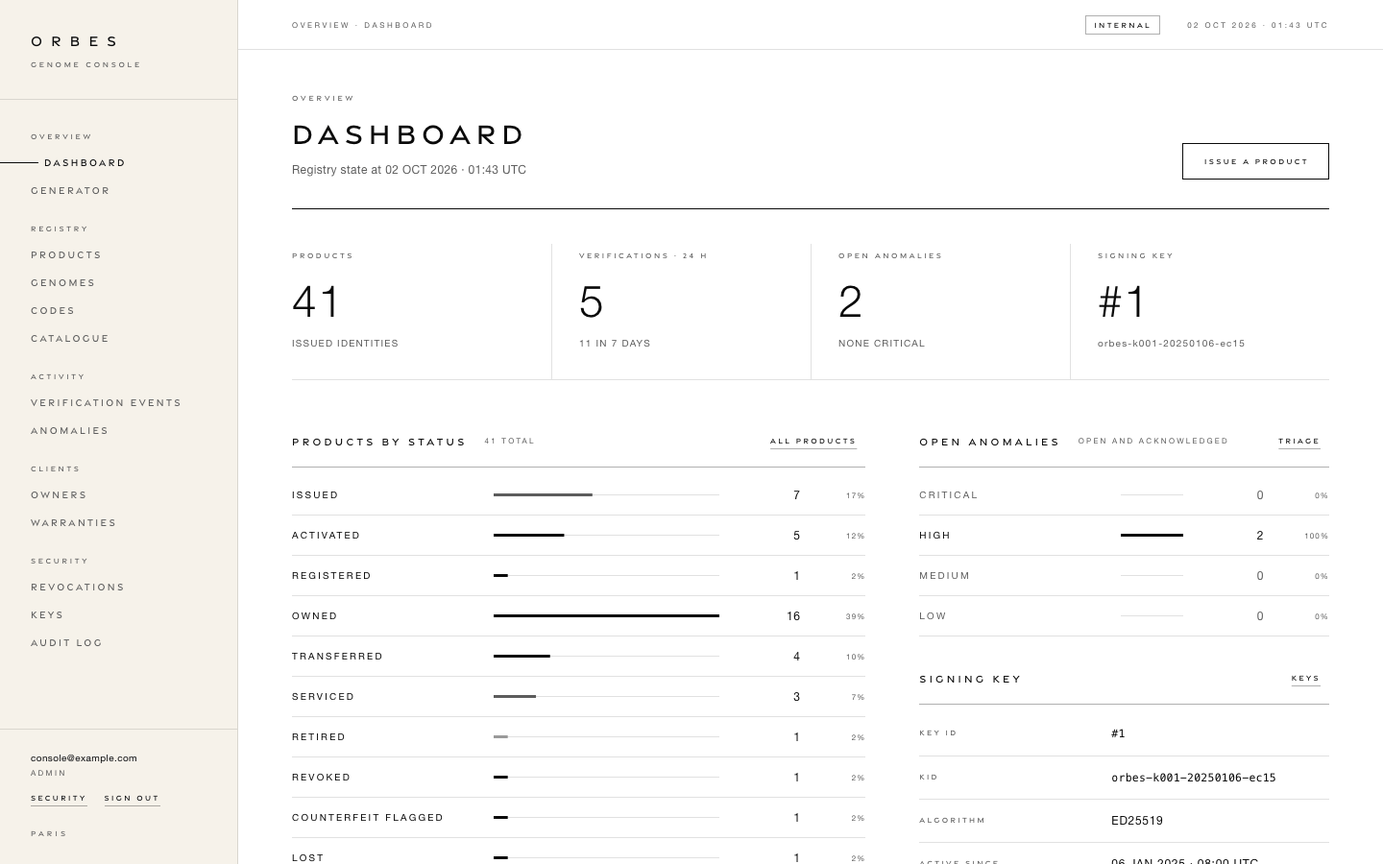
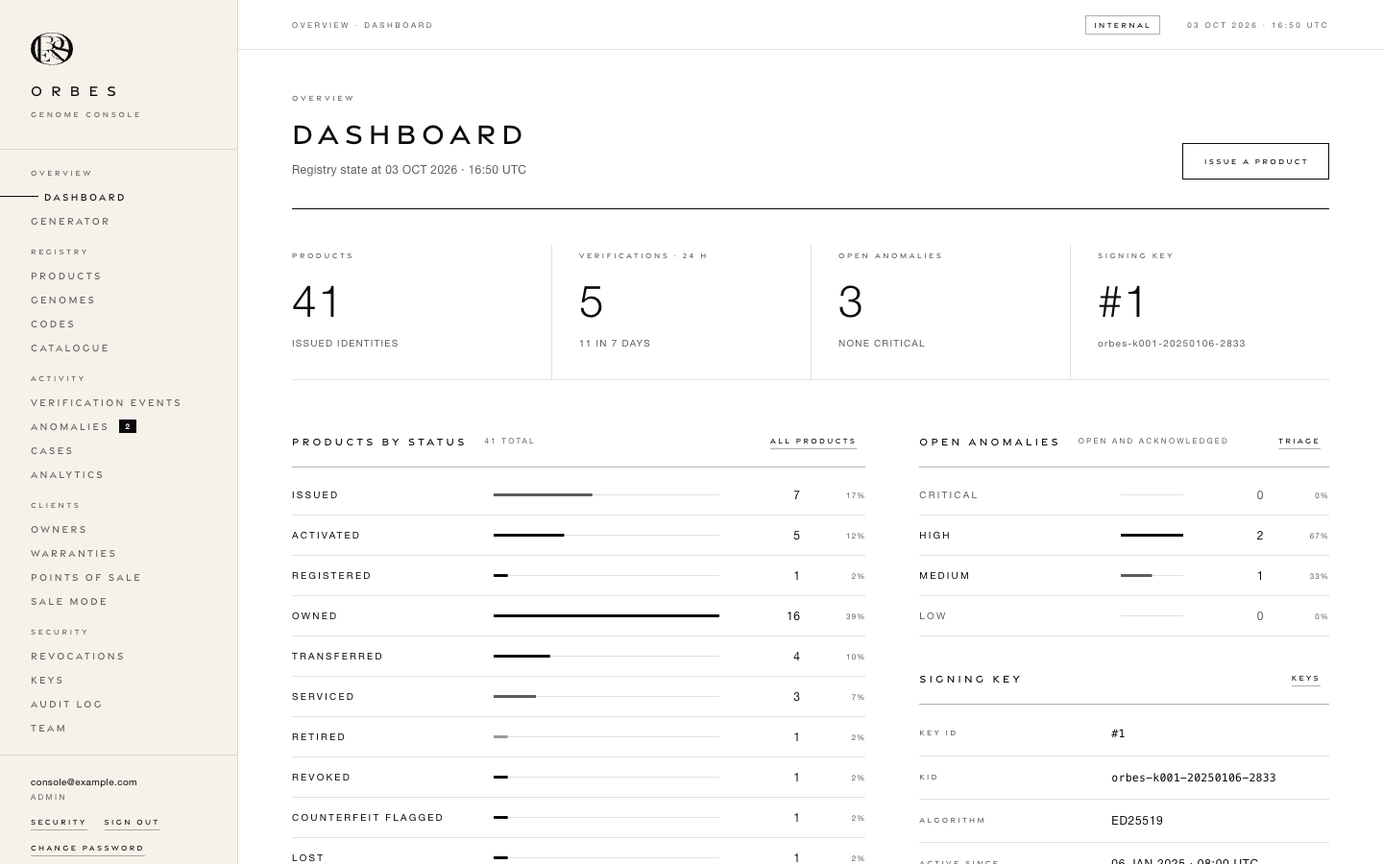
Docs: UI captures regenerated after the 2026-10-02 recommendations
capture-ui.ts now also writes Cases, Analytics (last 30 days), the owner
sheet, Team (with an OPERATOR and a RETAIL seller made through the auth
service), the sale mode on a phone (READY TO SELL from a photo) and the
legal FAQ, and takes the ownership certificate as a full page. The whole
set was regenerated in Chrome for Testing on macOS, except the locked
scanner, kept from the Linux run because macOS paints its frozen frame
black. BRAND shows MY PIECES, the certificate, the FAQ and the new
console screens, drops the "stage 4 regenerates it" note, and §9 lists
every capture and how the set is taken from a Mac.

diff --git a/genome/scripts/capture-ui.ts b/genome/scripts/capture-ui.ts
@@ -21,27 +21,38 @@
  *     VERIFYING… (photo path) · UNUSUAL ACTIVITY (O26-J-00193, reported
  *     stolen) · INVALID SIGNATURE (a demo code with one signature bit flipped)
  *   admin (1440 × 900 CSS px at 1×)
- *     dashboard · product page O26-J-00184 · generator result
+ *     dashboard · product page O26-J-00184 · generator result · Cases (the
+ *     demo customers' two reports) · Analytics (the daily statistics of the
+ *     last 30 complete days) · the owner sheet of Camille Martin · Team (the
+ *     bootstrap ADMIN and two staff accounts created through the auth
+ *     service: an OPERATOR still on its temporary password, a RETAIL seller)
+ *   admin, sale mode (the phone of verify, after the console's captures: the
+ *     lookup records a scan): the RETAIL seller, signed in, at the Paris
+ *     boutique, with the in-stock O26-J-00187 read from a photo: READY TO SELL
  *   verify, last (its scans would change the console's figures)
  *     UNUSUAL ACTIVITY with DO YOU HOLD THE CERTIFICATE CARD? (O26-L-00014,
  *     sold and unregistered, with a claim code, after a burst of scans of
  *     copies of its code from 22 sources) · MY PIECES (F-01) of the demo
  *     owner Camille Martin, signed in · the OWNERSHIP CERTIFICATE (F-06)
- *     of one of her pieces, opened by a visitor from its link
+ *     of one of her pieces, opened by a visitor from its link (full page)
+ *   legal (the phone of verify): the FAQ (/legal/faq, J-06), in English
  *
  * Nothing is mocked. Two network holds make transient states capturable:
  * the decoder worker script is held until the scanner has been
  * photographed searching, and POST /api/v1/verify is held while the locked
  * scanner and the VERIFYING… screen are photographed. The one-time claim code
  * on the generator result is hidden with its own control before capture.
- * The verify app's 2.2 % film grain (.grain) is hidden through the CSSOM
- * before each capture: invisible at documentation scale, it would otherwise
+ * The 2.2 % film grain (.grain) of verify and of the legal pages is hidden
+ * through the CSSOM before each capture: invisible at documentation scale, it would otherwise
  * roughly triple the size of the set.
  *
  * Titles and labels render in the shipped display face, Gravesend Sans,
  * everywhere (captures wait for document.fonts.ready). Reading text uses the
  * system stack: Helvetica Neue on macOS; Chromium on Linux has none and
  * resolves it to Liberation Sans (metric-compatible with Helvetica/Arial).
+ * Chrome for Testing on macOS paints the locked scanner's frozen camera
+ * frame black: from a Mac, keep docs/assets/ui/verify-03-locked.png from a
+ * Linux run (write the set elsewhere with --out and copy the rest).
  */
 import { mkdirSync, mkdtempSync, readdirSync, rmSync, statSync, writeFileSync } from 'node:fs';
 import { createServer } from 'node:net';
@@ -61,7 +72,7 @@ import { createContext, type AppContext } from '../src/server/context.js';
 import { closeDb, createDb, type Db } from '../src/server/db/connection.js';
 import { DEMO_FIRST_REGISTRATION_PRODUCT_ID, DEMO_TIMELINE_START, seedDemo } from '../src/server/db/seed/demo.js';
 import { MemoryKeyProvider } from '../src/server/keys/memory-provider.js';
-import { createManualClock, noopLogger } from '../src/server/types.js';
+import { createManualClock, noopLogger, systemActor } from '../src/server/types.js';
 import { cameraClipFrames } from '../test/e2e/support.js';
 import { svgToGray } from '../test/support/raster.js';
 import { writeY4m } from '../test/support/y4m.js';
@@ -76,12 +87,17 @@ const FIRST_REGISTRATION = DEMO_FIRST_REGISTRATION_PRODUCT_ID; // O26-J-00184, A
 const UNUSUAL_ACTIVITY = 'O26-J-00193'; // reported STOLEN, scanned by a stranger
 const FORGERY_BASE = 'O26-J-00186'; // in stock; its signature gets one flipped bit
 const CARD_SECTION = 'O26-L-00014'; // sold (ACTIVATED), unregistered, ships with a claim code
+const SALE_PIECE = 'O26-J-00187'; // in stock (ISSUED), never sold: READY TO SELL in the sale mode
+const SALE_BOUTIQUE = 'SAINT-HONORÉ'; // the demo point of sale the seller picks (ORBES PARIS — SAINT-HONORÉ)
 /** Scans of copies of its code, from this many distinct sources within a minute: velocity ⊕ diversity. */
 const CARD_BURST = 22;
 
 const ADMIN = { email: 'console@example.com', password: 'capture-ui-demo-password' };
 /** The demo owner whose pieces MY PIECES shows (the demo accounts take this password for the capture). */
 const OWNER = { email: 'camille.martin@example.com', password: 'capture-ui-owner-password' };
+/** Staff for the Team page: a seller (RETAIL) who signs in to the sale mode, and an OPERATOR on its temporary password. */
+const SELLER = { email: 'boutique.paris@example.com', password: 'capture-ui-seller-password' };
+const OPERATOR_EMAIL = 'atelier@example.com';
 const MOBILE = { width: 390, height: 844 } as const;
 const DESKTOP = { width: 1440, height: 900 } as const;
 const IPHONE_UA =
@@ -506,7 +522,7 @@ async function captureVerifyCertificate(stage: Stage, shots: Shots): Promise<voi
     await view.evaluate(() => document.fonts.ready);
     await hideGrain(view);
     await sleep(600);
-    await shots.viewport(view, 'verify-13-ownership-certificate');
+    await shots.full(view, 'verify-13-ownership-certificate');
     await visitor.close();
   } finally {
     await browser.close();
@@ -551,6 +567,99 @@ async function captureAdmin(stage: Stage, shots: Shots): Promise<void> {
     await page.mouse.move(0, 0);
     await sleep(900);
     await shots.full(page, 'admin-03-generator-result');
+
+    // Cases (C-02): the demo customers' answers to WHERE DID YOU SEE OR BUY THIS PIECE?
+    await page.goto(`${stage.origin}/admin#/cases`);
+    await page.waitForSelector('.view--cases [data-testid=case-where]');
+    await sleep(900);
+    await shots.viewport(page, 'admin-04-cases');
+
+    // Analytics (A-09): the daily statistics the demo seed counted, as housekeeping does every night.
+    await page.goto(`${stage.origin}/admin#/analytics?days=30`);
+    await page.waitForSelector('.view--analytics [data-testid=analytics-trend]');
+    await sleep(1200);
+    await shots.full(page, 'admin-05-analytics');
+
+    // The owner sheet (A-06) of the demo owner whose pieces MY PIECES shows.
+    const owner = await stage.db.selectFrom('accounts').select('id').where('email_normalized', '=', OWNER.email).executeTakeFirstOrThrow();
+    await page.goto(`${stage.origin}/admin#/owners/${owner.id}`);
+    await page.waitForSelector('.view--owner [data-testid=owner-scan]');
+    await sleep(900);
+    await shots.viewport(page, 'admin-06-owner');
+
+    // Team (A-02, A-08): the bootstrap ADMIN and the two staff accounts of addStaff.
+    await page.goto(`${stage.origin}/admin#/team`);
+    await page.waitForSelector(`[data-testid=admin-users] tr:has-text("${OPERATOR_EMAIL}")`);
+    await sleep(900);
+    await shots.viewport(page, 'admin-07-team');
+    await context.close();
+  } finally {
+    await browser.close();
+  }
+}
+
+/**
+ * Two staff accounts for the Team page, through the auth service as the console and the shell create them:
+ * an OPERATOR from the Team page (a temporary password, never used here) and a RETAIL seller with a known
+ * password (as `scripts/admin.ts create` makes one), who signs in to the sale mode.
+ */
+async function addStaff(stage: Stage): Promise<void> {
+  const actor = systemActor('capture-ui');
+  await stage.ctx.services.auth.createStaff({ email: OPERATOR_EMAIL, role: 'OPERATOR' }, actor);
+  await stage.ctx.services.auth.createAdmin({ ...SELLER, role: 'RETAIL' }, actor);
+}
+
+/**
+ * The sale mode (A-08) on the seller's phone: signed in as RETAIL, the Paris boutique chosen, an in-stock
+ * piece read from a photo through the sale view's own photo reader. Run after the console captures: the
+ * lookup records a staff scan. The warranty is not started.
+ */
+async function captureSale(stage: Stage, shots: Shots): Promise<void> {
+  const browser = await chromium.launch({ executablePath: CHROMIUM_PATH, headless: true, args: ['--no-sandbox'] });
+  try {
+    const context = await mobileContext(browser);
+    const page = await context.newPage();
+    watchPage(page, 'sale');
+    await page.goto(`${stage.origin}/admin`);
+    await page.waitForSelector('[data-testid=login-form]');
+    await page.fill('input[name=email]', SELLER.email);
+    await page.fill('input[name=password]', SELLER.password);
+    await page.click('[data-testid=login-submit]');
+    await page.waitForSelector('[data-testid=sale-shell] [data-testid=sale-retailer]');
+    const boutique = await page.$eval(
+      '[data-testid=sale-retailer]',
+      (s, name) => [...(s as HTMLSelectElement).options].find((o) => o.textContent?.includes(name))?.value ?? '',
+      SALE_BOUTIQUE,
+    );
+    if (!boutique) throw new Error(`no point of sale named ${SALE_BOUTIQUE}`);
+    await page.selectOption('[data-testid=sale-retailer]', boutique);
+    await page.setInputFiles('[data-testid=sale-photo]', { name: 'orbes-code.png', mimeType: 'image/png', buffer: codePhoto(await codeOf(stage.db, SALE_PIECE)) });
+    await page.waitForSelector('[data-testid=sale-verdict]', { timeout: 20_000 });
+    const verdict = (await page.textContent('[data-testid=sale-verdict]'))?.trim();
+    if (verdict !== 'READY TO SELL') throw new Error(`${SALE_PIECE} reads ${verdict} in the sale mode`);
+    await page.evaluate(() => document.fonts.ready);
+    await page.mouse.move(0, 0);
+    await sleep(1200);
+    await shots.full(page, 'admin-08-sale');
+    await context.close();
+  } finally {
+    await browser.close();
+  }
+}
+
+/** The FAQ of the legal pages (J-06), on the phone of verify (English: the browser's language). */
+async function captureLegal(stage: Stage, shots: Shots): Promise<void> {
+  const browser = await chromium.launch({ executablePath: CHROMIUM_PATH, headless: true, args: ['--no-sandbox'] });
+  try {
+    const context = await mobileContext(browser);
+    const page = await context.newPage();
+    watchPage(page, 'legal');
+    await page.goto(`${stage.origin}/legal/faq`);
+    await page.waitForSelector('.legal__section');
+    await page.evaluate(() => document.fonts.ready);
+    await hideGrain(page);
+    await sleep(600);
+    await shots.viewport(page, 'legal-01-faq');
     await context.close();
   } finally {
     await browser.close();
@@ -702,13 +811,18 @@ async function main(): Promise<void> {
     log('verify:');
     await captureVerify(stage, shots, workDir);
     log('admin:');
+    await addStaff(stage);
     await captureAdmin(stage, shots);
+    log('admin, sale mode:');
+    await captureSale(stage, shots);
     log('verify, certificate-card section:');
     await captureVerifyCard(stage, shots);
     log('verify, my pieces:');
     await captureVerifyPieces(stage, shots);
     log('verify, ownership certificate:');
     await captureVerifyCertificate(stage, shots);
+    log('legal:');
+    await captureLegal(stage, shots);
     const total = readdirSync(out)
       .filter((f) => f.endsWith('.png'))
       .reduce((s, f) => s + statSync(join(out, f)).size, 0);

diff --git a/docs/BRAND-DESIGN-SYSTEM.md b/docs/BRAND-DESIGN-SYSTEM.md
@@ -257,7 +257,7 @@ pyftsubset GravesendSans-Medium.otf --flavor=woff2 --desubroutinize --layout-fea
 
 **French in the display face.** The display roles are set in capitals (`text-transform: uppercase`), so a French title needs Gravesend's accented capitals: the subset carries those of Latin-1 with Œ and Ÿ, taken from the supplied OTF (fontTools lists every one of them in its character map), and the French quotation marks. The legal pages (J-06), the one French screen of this system, therefore set their French titles, section headings and text links in the display face like the English ones (CONFIDENTIALITÉ, FRANÇAIS on either page), as the owner's choice for titles, labels and the wordmark (D-04) says; no rule sends a language back to `--font` (`genome/test/web/legal.brand.test.ts`), and the E2E suite checks that every letter of the French display text is drawn by Gravesend itself. Their figures stay in `--font` (above), as everywhere. The narrow no-break space of French punctuation is not in the face: being blank, it falls back unseen. Until 2026-10-03 the subset held Basic Latin only and the French titles read in `--font`.
 
-**Rendering.** Display text renders in Gravesend Sans on every platform, Android and Windows included. Reading text renders in Helvetica Neue on Apple devices (Helvetica Neue Light for weight 300); elsewhere it falls back to Helvetica or Arial, and on most Android devices to the platform sans-serif (Roboto), where weight 300 renders as 400. The screenshots in this document were taken on 2026-10-02 in Chrome for Testing on macOS, so reading text is Helvetica Neue. One predates the display face: the locked scanner (`verify-03-locked.png`), kept from an earlier capture in Chromium on Linux because Chrome for Testing on macOS paints the frozen camera frame black; on Linux the reading stack resolves to Liberation Sans, metric-compatible with Helvetica and Arial.
+**Rendering.** Display text renders in Gravesend Sans on every platform, Android and Windows included. Reading text renders in Helvetica Neue on Apple devices (Helvetica Neue Light for weight 300); elsewhere it falls back to Helvetica or Arial, and on most Android devices to the platform sans-serif (Roboto), where weight 300 renders as 400. The screenshots in this document were taken on 2026-10-03 in Chrome for Testing on macOS, so reading text is Helvetica Neue. One predates the display face: the locked scanner (`verify-03-locked.png`), kept from an earlier capture in Chromium on Linux because Chrome for Testing on macOS paints the frozen camera frame black; on Linux the reading stack resolves to Liberation Sans, metric-compatible with Helvetica and Arial.
 
 **Floors.** Nothing that is acted on, and no fact the visitor has to read, is set under 10 px (`--fs-micro`) in the verification app: buttons, text links, scanner controls, sign-in options, tabs, field labels, the GENOME fingerprint line and the ownership lines. 8 px (`--fs-nano`) and the 7–9 px component sizes are left to decoration and to labels nobody taps (landing foot, GENOME label, section and row labels). Every tap zone is at least 44 × 44 px (§3.8).
 
@@ -665,12 +665,12 @@ Every screen after the landing shares one history entry, so the back button (or 
 
 <table>
 <tr>
-<td width="33%"><img src="assets/ui/verify-01-landing.png" width="250" alt="Verify landing: the monogram over the ORBES wordmark inside a faint orbit, SCAN ORBES CODE button, UPLOAD A PHOTO link"></td>
+<td width="33%"><img src="assets/ui/verify-01-landing.png" width="250" alt="Verify landing: the monogram over the ORBES wordmark inside a faint orbit, SCAN ORBES CODE button, UPLOAD A PHOTO and MY PIECES links, then PRIVACY · TERMS · LEGAL · HELP and IP GEOLOCATION BY DB-IP at the foot"></td>
 <td width="33%"><img src="assets/ui/verify-02-scanning.png" width="250" alt="Scanner: camera view of a code on a desk, white orbit reticle with four moons, SCANNING…"></td>
 <td width="33%"><img src="assets/ui/verify-03-locked.png" width="250" alt="Scanner locked on the code: frozen frame, darker veil, closed orbit, VERIFYING…"></td>
 </tr>
 <tr>
-<td valign="top"><b>1 · Landing.</b> The monogram over the wordmark sits inside the resting orbit as the core sits inside the seal (§3.9). One hairline button, two discreet links (UPLOAD A PHOTO, then MY PIECES once the session is known). At the foot, in the page's flow (a short phone scrolls down to it), the legal pages, PRIVACY · TERMS · LEGAL · HELP, and IP GEOLOCATION BY DB-IP (J-06), then © ORBES and PARIS (GENOME CODE joins them from 560 px). The screenshot predates the legal links (stage 4 regenerates it).</td>
+<td valign="top"><b>1 · Landing.</b> The monogram over the wordmark sits inside the resting orbit as the core sits inside the seal (§3.9). One hairline button, two discreet links (UPLOAD A PHOTO, then MY PIECES once the session is known). At the foot, in the page's flow (a short phone scrolls down to it), the legal pages, PRIVACY · TERMS · LEGAL · HELP, and IP GEOLOCATION BY DB-IP (J-06), then © ORBES and PARIS (GENOME CODE joins them from 560 px).</td>
 <td valign="top"><b>2 · Scanning.</b> Full-bleed camera, a flat 50 % veil outside the orbit, the live reticle with its travelling arc and four moons (polaris top left). One status line, one guide sentence, LIGHT and the zoom control only when the camera offers them (the camera opens at about 2× zoom; the control returns to 1×).</td>
 <td valign="top"><b>3 · Code found.</b> The frame freezes, the veil deepens to 78 %, the orbit closes (2 px, moons ×1.35) and the phone ticks. ORBES CODE FOUND for 420 ms, then VERIFYING… while the server answers.</td>
 </tr>
@@ -744,7 +744,14 @@ Tabs follow the ARIA tablist pattern (arrow keys, Home, End, roving tab index); 
 3. the product lines MODEL / TYPE / CATEGORY / MATERIAL / CREATED YYYY;
 4. the tabs **OWNERSHIP · WARRANTY · SERVICE**, opening on OWNERSHIP: its status line (REGISTERED TO YOU, TRANSFER PENDING, IN SERVICE, REPORTED LOST, REPORTED STOLEN), rows, then REPORT LOST / STOLEN or PIECE FOUND, each confirmed in place under a section label (the confirmation's button is the hairline button, CANCEL a text link; PIECE FOUND asks for the account's PASSWORD first), or, for a theft or a loss ORBES Client Services recorded, and for a piece the owner cannot report (revoked, retired or flagged by ORBES: the list's `incidentReportable`), their contact; after each change the piece is read again from the server, so its status line is the server's (IN SERVICE again for a loss declared during a service); WARRANTY, the rows and sentence of a result; SERVICE, the service history, read when the tab is first opened.
 
-At the foot, the account line, SIGNED IN AS {email} · CHANGE PASSWORD · SIGN OUT, then SCAN ORBES CODE, the page's hairline button, then the legal pages as under a result (PRIVACY · TERMS · LEGAL · HELP and IP GEOLOCATION BY DB-IP, in a new tab, J-06): the page collects account data, signed out too. Under CREATE ACCOUNT, here as in the OWNERSHIP tab, the sentence *Creating an ORBES account means accepting the ORBES terms of use.*, then TERMS OF USE · PRIVACY POLICY, each in a new tab. Signed out, the OWNERSHIP tab's sign-in stands alone in place of the pieces (with FORGOTTEN PASSWORD?), so the owner of a piece that is gone reaches it without scanning the piece; that is why the landing offers MY PIECES signed out too. No piece: *No piece is registered to your ORBES account yet. Scan a piece, then register it from the OWNERSHIP tab of its result.* Keyboard focus goes to the title once the pieces are shown after a sign-in, to the section label of a confirmation, and to the status line once a report is made or withdrawn. The words LOST and STOLEN appear on this page only (§4.5). The screenshot `verify-12-my-pieces` is written by `genome/scripts/capture-ui.ts` (the demo owner Camille Martin, signed in).
+At the foot, the account line, SIGNED IN AS {email} · CHANGE PASSWORD · SIGN OUT, then SCAN ORBES CODE, the page's hairline button, then the legal pages as under a result (PRIVACY · TERMS · LEGAL · HELP and IP GEOLOCATION BY DB-IP, in a new tab, J-06): the page collects account data, signed out too. Under CREATE ACCOUNT, here as in the OWNERSHIP tab, the sentence *Creating an ORBES account means accepting the ORBES terms of use.*, then TERMS OF USE · PRIVACY POLICY, each in a new tab. Signed out, the OWNERSHIP tab's sign-in stands alone in place of the pieces (with FORGOTTEN PASSWORD?), so the owner of a piece that is gone reaches it without scanning the piece; that is why the landing offers MY PIECES signed out too. No piece: *No piece is registered to your ORBES account yet. Scan a piece, then register it from the OWNERSHIP tab of its result.* Keyboard focus goes to the title once the pieces are shown after a sign-in, to the section label of a confirmation, and to the status line once a report is made or withdrawn. The words LOST and STOLEN appear on this page only (§4.5).
+
+<table>
+<tr>
+<td width="33%"><img src="assets/ui/verify-12-my-pieces.png" width="250" alt="MY PIECES: the small wordmark, the title and its sentence, then the first piece, O26-J-00199, its GENOME in its orbit on an ivory plate, and its product lines"></td>
+<td valign="top" colspan="2"><b>MY PIECES</b> of the demo owner Camille Martin, signed in, its first screen: her newest acquisition, O26-J-00199, on its plate, then its product lines. Its tabs, her other pieces and the account line follow below.</td>
+</tr>
+</table>
 
 In the OWNERSHIP tab of a piece not reported lost or stolen, nor revoked or retired (the list's `certificateAllowed`, which names no status: the server would refuse the link), under REPORT LOST / STOLEN, the section **OWNERSHIP CERTIFICATE** (F-06, §4.4): CREATE CERTIFICATE opens the choice of the link's validity and CREATE LINK; the link then shows once on ivory, like a transfer code (`.certificate-link`, the address wrapping anywhere), with COPY LINK and OPEN LINK; under it, each open link on its line between hairlines, WITHDRAW at its end (4 px above and below, so its 44 px zone stays inside the line). Keyboard focus goes to the chosen validity when the choice opens, to COPY LINK once the link is made, and to the section's label after a withdrawal.
 
@@ -753,6 +760,13 @@ In the OWNERSHIP tab of a piece not reported lost or stolen, nor revoked or reti
 `/legal`, the third app (`genome/src/web/legal/`): the privacy policy (`/legal/privacy`), the terms of use (`/legal/terms`), the legal notice (`/legal/notice`) and the FAQ (`/legal/faq`), in French and English, and their index (`/legal`). One reading column, 640 px at most, 32 px margins (22 px under 350 px): the small wordmark, the four pages (PRIVACY · TERMS · LEGAL · HELP; CONFIDENTIALITÉ · CONDITIONS · MENTIONS LÉGALES · AIDE), spaced without dots because the French row wraps on a phone, the current one at full ink and underlined; ENGLISH · FRANÇAIS, each in its own language, for the same page and section in the other (the section the address names when it is followed: an anchor inside the page, `#cookies`, moves it); the title, the version line (VERSION OF 3 OCTOBER 2026, `LEGAL_VERSION`), then the sections between hairlines, each heading an anchor (`/legal/faq#transfer`). At the foot, VERIFY A PIECE, IP GEOLOCATION BY DB-IP and © ORBES · GENOME CODE · PARIS. Titles, headings and links are in the display face in both languages (§3.1). The language is `?lang=`, else the browser's, and is the page's `<html lang>`; every link between the pages keeps it, and French punctuation takes a narrow no-break space (« … », : ; ? !).
 
 The text is a small Markdown the page builds with `textContent` only (a paragraph, a list, a clause's lead set apart, a link to a legal page, an anchor or an https address, anything else read as words). Where a page names ORBES Client Services' contact (the publisher, the privacy policy's controller), it shows the one the server publishes, its email and phone as links; nothing configured, nothing shows. Every text link keeps the floors of §3.8; a link inside a sentence is an underlined word, exempt as WCAG 2.5.8 allows. In print (`@media print`) the page is the text alone: no navigation, language or grain, black on white, the address of a link outside the site written after it. The pages hold no field to complete in sight: until ORBES gives its legal identity, they read "ORBES". Their words are held to the lexicon (§4.5, in English and in French) by `genome/test/web/legal.content.test.ts`, which also holds the terms and the notice to their drafts (`docs/legal`), and the privacy policy and the FAQ to the code.
+
+<table>
+<tr>
+<td width="33%"><img src="assets/ui/legal-01-faq.png" width="250" alt="The FAQ in English on a phone: the small wordmark, PRIVACY TERMS LEGAL HELP with HELP underlined, ENGLISH · FRANÇAIS, FREQUENTLY ASKED QUESTIONS, VERSION OF 3 OCTOBER 2026, the lead, then WHAT DOES A RESULT PROVE?"></td>
+<td valign="top" colspan="2"><b>The FAQ</b> (<code>/legal/faq</code>, in English, the browser's language), its first screen on a phone: the four pages, HELP current; ENGLISH · FRANÇAIS; the title on two lines and the version line; the lead, then the first section between hairlines, its heading in the display face over reading text in Helvetica Neue.</td>
+</tr>
+</table>
 
 ### OWNERSHIP CERTIFICATE (F-06)
 
@@ -764,7 +778,14 @@ The text is a small Markdown the page builds with `textContent` only (a paragrap
 4. *A certificate names no owner…*, in `--ink-soft`;
 5. DOWNLOAD PDF, the page's hairline button, then SCAN ORBES CODE, a text link, and VERIFY ONLY AT THEORBES.COM/VERIFY, 10 px in the display face.
 
-No longer valid or not found: the sentence alone, then SCAN ORBES CODE as the hairline button. The token stays in the address's fragment and is sent in the body of a request only. The PDF (`render/certificate.ts`) is one A4 page in the lettering of the certificate card: ORBES and the monogram, OWNERSHIP CERTIFICATE, the GENOME in its orbit on an ivory plate (#F6F2EA, ink #111111, as on screen), THE PIECE and THE RECORD in two columns, THIS CERTIFICATE (VALID ON 3 OCTOBER 2026 · 12:34 UTC, ISSUED, VALID UNTIL), what it attests and what it does not, CHECK IT LIVE with its address and its code in groups of four (also a link; typed as printed, capitals and hyphens included, it opens the certificate, API §8.7), and VERIFY ONLY AT THEORBES.COM/VERIFY. Never AUTHENTIC, never a name. The label lettering gains `:` and `#` for it. The screenshot `verify-13-ownership-certificate` is written by `genome/scripts/capture-ui.ts` (a certificate of the demo owner's piece).
+No longer valid or not found: the sentence alone, then SCAN ORBES CODE as the hairline button. The token stays in the address's fragment and is sent in the body of a request only. The PDF (`render/certificate.ts`) is one A4 page in the lettering of the certificate card: ORBES and the monogram, OWNERSHIP CERTIFICATE, the GENOME in its orbit on an ivory plate (#F6F2EA, ink #111111, as on screen), THE PIECE and THE RECORD in two columns, THIS CERTIFICATE (VALID ON 3 OCTOBER 2026 · 12:34 UTC, ISSUED, VALID UNTIL), what it attests and what it does not, CHECK IT LIVE with its address and its code in groups of four (also a link; typed as printed, capitals and hyphens included, it opens the certificate, API §8.7), and VERIFY ONLY AT THEORBES.COM/VERIFY. Never AUTHENTIC, never a name. The label lettering gains `:` and `#` for it.
+
+<table>
+<tr>
+<td width="33%"><img src="assets/ui/verify-13-ownership-certificate.png" width="250" alt="OWNERSHIP CERTIFICATE, VALID, its sentence, O26-J-00199 on its ivory plate, the product lines, THE RECORD and THIS CERTIFICATE rows, A certificate names no owner, DOWNLOAD PDF, SCAN ORBES CODE, VERIFY ONLY AT THEORBES.COM/VERIFY"></td>
+<td valign="top" colspan="2"><b>A certificate of the demo owner's piece</b> (O26-J-00199, 90 days), opened by a visitor from its link without an account (full page): VALID, the écrin of MY PIECES, the product lines, THE RECORD (OWNERSHIP VERIFIED, the warranty, LOSS OR THEFT NONE REPORTED) and THIS CERTIFICATE (CHECKED, ISSUED, VALID UNTIL), the sentence that it names no owner, then DOWNLOAD PDF, SCAN ORBES CODE and VERIFY ONLY AT THEORBES.COM/VERIFY.</td>
+</tr>
+</table>
 
 ---
 
@@ -800,6 +821,29 @@ The console is an internal instrument in the house style, not a SaaS dashboard: 
 ![Generator result: issued identity O26-J-00200, hidden claim code, GENOME and signed code facts, code preview and print options](assets/ui/admin-03-generator-result.png)
 
 *Generator result (full page).* The issued identity, the claim code panel after *hide*, the GENOME and the signed-code facts, and the print panel: the code preview rendered in the browser from the signed data with the same encoder as print, width, theme (CLASSIC — BLACK ON WHITE, INVERTED — WHITE ON BLACK, IVORY — INK ON IVORY), resolution, label, decor, *Test print* and K-only black (PDF) options, the size advice under 30 mm, SVG / PNG / PDF.
+
+![Cases: two OPEN cases, PRIVATE SALE in Barcelona and ONLINE on a marketplace listing, each with the customer's note, its scan and result, its anomaly, its piece, a status mark and CLOSE](assets/ui/admin-04-cases.png)
+
+*Cases, 1 440 × 900* (principle 9). The demo customers' two answers to WHERE DID YOU SEE OR BUY THIS PIECE?, OPEN first: where, with the customer's note under it in `--ink-soft`; the scan's REF over its result, the anomaly over its severity and status, the piece, the status mark and CLOSE.
+
+![Analytics over the last 30 days: four figures, scans by day as one hairline curve, one small curve per verification state, the countries and the counterfeit signals as hairline bars, then two tables](assets/ui/admin-05-analytics.png)
+
+*Analytics, LAST 30 DAYS (full page)* (principle 12). The demo dataset's daily statistics: SCANS, AUTHENTIC, COUNTERFEIT SIGNALS and COUNTRIES; SCANS BY DAY, its ceiling and five days labelled; BY RESULT, a lone baseline for a state without scans, the INVALID SIGNATURE mark in oxblood; COUNTRIES and COUNTERFEIT SIGNALS BY COUNTRY as hairline bars; SIGNALS BY COUNTRY AND RESULT and DAYS WITH SCANS as tables.
+
+![Owner sheet of camille.martin@example.com: RECOVERY CODE, LOCK ACCOUNT and EXPORT DATA, the account rows, then her pieces with their status marks](assets/ui/admin-06-owner.png)
+
+*Owner sheet, Camille Martin (A-06), as an ADMIN reads it.* The email as title; RECOVERY CODE, LOCK ACCOUNT (oxblood, destructive) and EXPORT DATA; ACCOUNT (status, email, name, country, since, account id); PIECES, owned now and ever, each with its model, material, status mark and how and when it was acquired. Her transfers in progress and her 20 latest scans follow below the fold.
+
+![Team: three console users, an OPERATOR on its temporary password, a RETAIL seller and the signed-in ADMIN, with ROLE, SESSIONS and DISABLE](assets/ui/admin-07-team.png)
+
+*Team, 1 440 × 900* (ADMIN, principle 6). NEW STAFF ACCOUNT; each console user with its role, second factor and state (TEMPORARY PASSWORD until its first sign-in), then ROLE, SESSIONS and DISABLE (oxblood); one's own row, marked *You*, without them. The two staff accounts are made by the capture script through the auth service (§9): the demo dataset has none.
+
+<table>
+<tr>
+<td width="33%"><img src="assets/ui/admin-08-sale.png" width="250" alt="Sale mode on a phone: ORBES GENOME CONSOLE on an ivory bar, SALE MODE, POINT OF SALE ORBES PARIS — SAINT-HONORÉ, READY TO SELL for O26-J-00187 with its model and material lines, STATUS ISSUED, WARRANTY NOT STARTED, CLIENT ACCOUNT not registered yet, ACTIVATE WARRANTY, SCAN ANOTHER, and the seller's account at the foot"></td>
+<td valign="top" colspan="2"><b>Sale mode, on the seller's phone</b> (principle 13; 390 × 844 at 2×, full page). A RETAIL seller signed in, in the sale shell; ORBES PARIS — SAINT-HONORÉ chosen; the in-stock O26-J-00187 read from a photo through the sale mode's photo input: READY TO SELL, the product id, the model and the material on two tracked lines, STATUS, WARRANTY and CLIENT ACCOUNT, the one sentence, ACTIVATE WARRANTY, SCAN ANOTHER and how long the scan stays valid; the seller's email, RETAIL, SECURITY, CHANGE PASSWORD and SIGN OUT at the foot. The warranty is not started.</td>
+</tr>
+</table>
 
 ---
 
@@ -883,7 +927,10 @@ cd genome && npx tsx scripts/capture-ui.ts --raw    # truecolour PNGs instead of
 
 `genome/scripts/capture-ui.ts` builds the web apps with `scripts/build-web.ts` (production mode, into a temporary directory), seeds the demo dataset into an in-memory PGlite database through the real services (`seedDemo`), starts the real server (`createContext` + `buildApp`), and drives Chromium (`/opt/pw-browsers/chromium-1194/chrome-linux/chrome`, or `ORBES_CHROMIUM`) through playwright-core:
 
-- **Verify**: 390 × 844 CSS px at 2×, iPhone user agent, Europe/Paris. The camera is Chromium's fake capture device playing simulated hand-held video of O26-J-00184's code (`cameraClipFrames` from `genome/test/e2e/support.ts`). The unusual-activity and invalid-signature results go through the real photo-upload path. The certificate-card section (`verify-10b-unusual-activity-card.png`) is captured last, after the console: a burst of 22 scans of O26-L-00014's code from distinct sources, through the real verification service, then its photo; those scans would otherwise change the console's figures.
-- **Console**: 1 440 × 900 CSS px at 1×, signed in as a bootstrap ADMIN; the generator result is a real issuance through the form.
+- **Verify**: 390 × 844 CSS px at 2×, iPhone user agent, Europe/Paris. The camera is Chromium's fake capture device playing simulated hand-held video of O26-J-00184's code (`cameraClipFrames` from `genome/test/e2e/support.ts`). The unusual-activity and invalid-signature results go through the real photo-upload path. The certificate-card section (`verify-10b-unusual-activity-card.png`) is captured after the console and the sale mode: a burst of 22 scans of O26-L-00014's code from distinct sources, through the real verification service, then its photo; those scans would otherwise change the console's figures.
+- **Console**: 1 440 × 900 CSS px at 1×, signed in as a bootstrap ADMIN; the generator result is a real issuance through the form. Before it, the script creates two staff accounts through the auth service, an OPERATOR from the Team page's path (`createStaff`, on its temporary password) and a RETAIL seller with a known password (`createAdmin`, as `scripts/admin.ts create` does), so the Team page has rows; Cases reads the demo dataset's two customer reports, Analytics its daily statistics (LAST 30 DAYS), the owner sheet is Camille Martin's.
+- **Sale mode** (`admin-08-sale.png`): the phone of verify (390 × 844 at 2×), after the console: the RETAIL seller signs in, chooses ORBES PARIS — SAINT-HONORÉ and reads the in-stock O26-J-00187 from a photo (the lookup records a staff scan, which the console captures must not show). The warranty is not started.
+- **Then**, on the phone of verify: MY PIECES (`verify-12-my-pieces.png`), the demo owner Camille Martin signed in through the account API; her OWNERSHIP CERTIFICATE (`verify-13-ownership-certificate.png`, full page), a link she creates through the API, opened by a visitor without an account; and the FAQ of the legal pages (`legal-01-faq.png`), in English.
+- **The locked scanner** (`verify-03-locked.png`) is kept from a run in Chromium on Linux: Chrome for Testing on macOS paints its frozen camera frame black (§3.1). From a Mac, write the set elsewhere (`--out`) and copy every file but that one.
 
-Nothing is mocked. To photograph transient states, the decoder worker script is held until the scanner has been captured searching, and `POST /api/v1/verify` is held while the locked scanner and the VERIFYING… screen are captured. Before capture the verify film grain is hidden through the CSSOM (invisible at this scale, it would roughly triple the files), and the generator's claim code is hidden with the console's own control. PNGs are quantised to an exact 256-colour palette (median cut, each entry snapped to the most frequent exact colour of its box, no dithering), so `#FFFFFF`, `#0A0A0A`, `#F6F2EA` and `#5C5C5C` survive bit-exact; the set weighs about 1.2 MB. Product ids and dates in the captures depend on the run (the generator allocates the next serial; times are the capture time).
+Nothing is mocked. To photograph transient states, the decoder worker script is held until the scanner has been captured searching, and `POST /api/v1/verify` is held while the locked scanner and the VERIFYING… screen are captured. Before capture the film grain of verify and of the legal pages is hidden through the CSSOM (invisible at this scale, it would roughly triple the files), and the generator's claim code is hidden with the console's own control. PNGs are quantised to an exact 256-colour palette (median cut, each entry snapped to the most frequent exact colour of its box, no dithering), so `#FFFFFF`, `#0A0A0A`, `#F6F2EA` and `#5C5C5C` survive bit-exact; the set of 23 weighs about 1.7 MB. Product ids and dates in the captures depend on the run (the generator allocates the next serial; times are the capture time).
